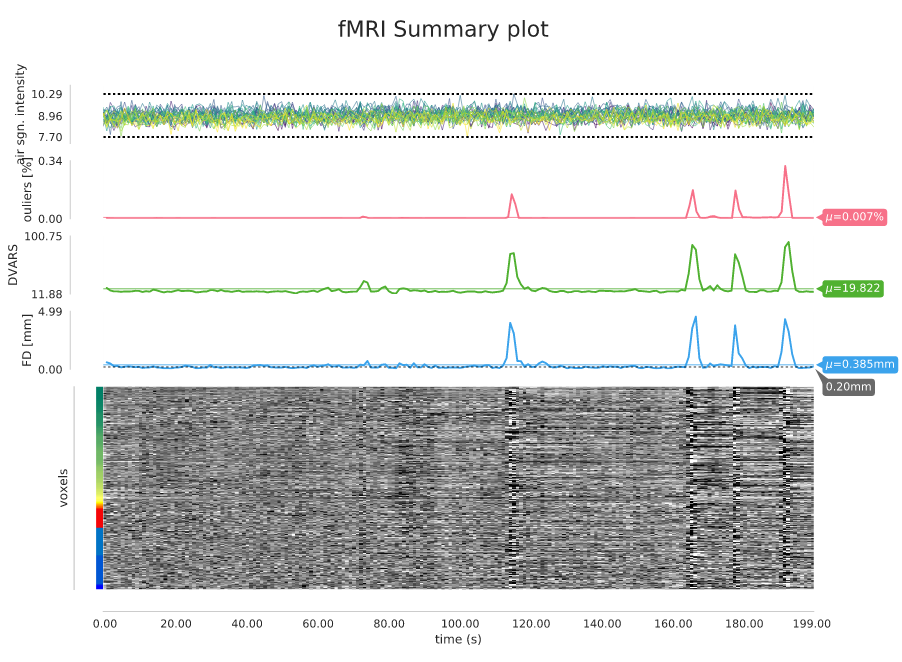
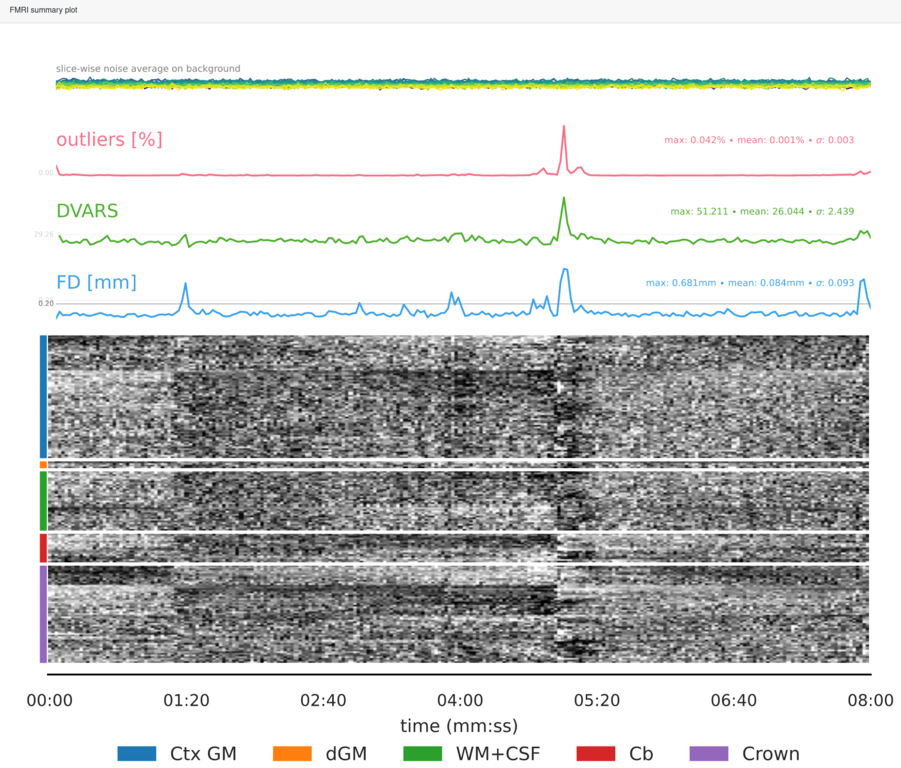
doc : update documentation with the new carpetplot. Also add some description of this carpetplot.

diff --git a/docs/source/reports/bold.rst b/docs/source/reports/bold.rst
@@ -41,7 +41,12 @@ The section with visual reports contains:
    signal intensity at the extremes for the identification
    of spikes, the outliers metric, the DVARS and the
    :abbr:`FD (framewise displacement)`. Finally the
-   so-called carpetplot [Power2016]_
+   so-called carpetplot [Power2016]_. 
+   The carpet plot rows, corresponding to voxel timeseries,
+   are separated into regions : cortical gray-matter, deep 
+   gray-matter, white-matter and cerebrospinal fluid, cerebellum 
+   and crown [Provins2022]_. The crown corresponds to the voxels located on a 
+   closed band around the brain [Patriat2015]_.
 
    .. figure:: ../resources/reports-bold_summary.png
      :alt: fMRI summary plot
@@ -87,6 +92,15 @@ reported here.
 
 .. topic:: References
 
+  .. [Patriat2015] Patriat, R., EK Molloy, RM Birn, T. Guitchev, and A. Popov. “Using Edge Voxel Information to 
+     Improve Motion Regression for Rs-FMRI Connectivity Studies.” Brain Connectivity 5, no. 9 (28 2015): 582–95. 
+     doi: `10.1089/brain.2014.0321 <https://doi.org/10.1089/brain.2014.0321>`_.
+
   .. [Power2016] Power JD, A simple but useful way to assess fMRI scan qualities.
      NeuroImage. 2016. doi: `10.1016/j.neuroimage.2016.08.009 <http://doi.org/10.1016/j.neuroimage.2016.08.009>`_
+
+  .. [Provins2022] Provins, Céline, Christopher J. Markiewicz, Rastko Ciric, Mathias Goncalves, César Caballero-Gaudes, 
+     Russell Poldrack, Patric Hagmann, and Oscar Esteban. “Quality Control and Nuisance Regression of FMRI, Looking out 
+     Where Signal Should Not Be Found.” OSF Preprints, January 21, 2022. doi: `10.31219/osf.io/hz52v <https://doi.org/10.31219/osf.io/hz52v>`_
+
 
